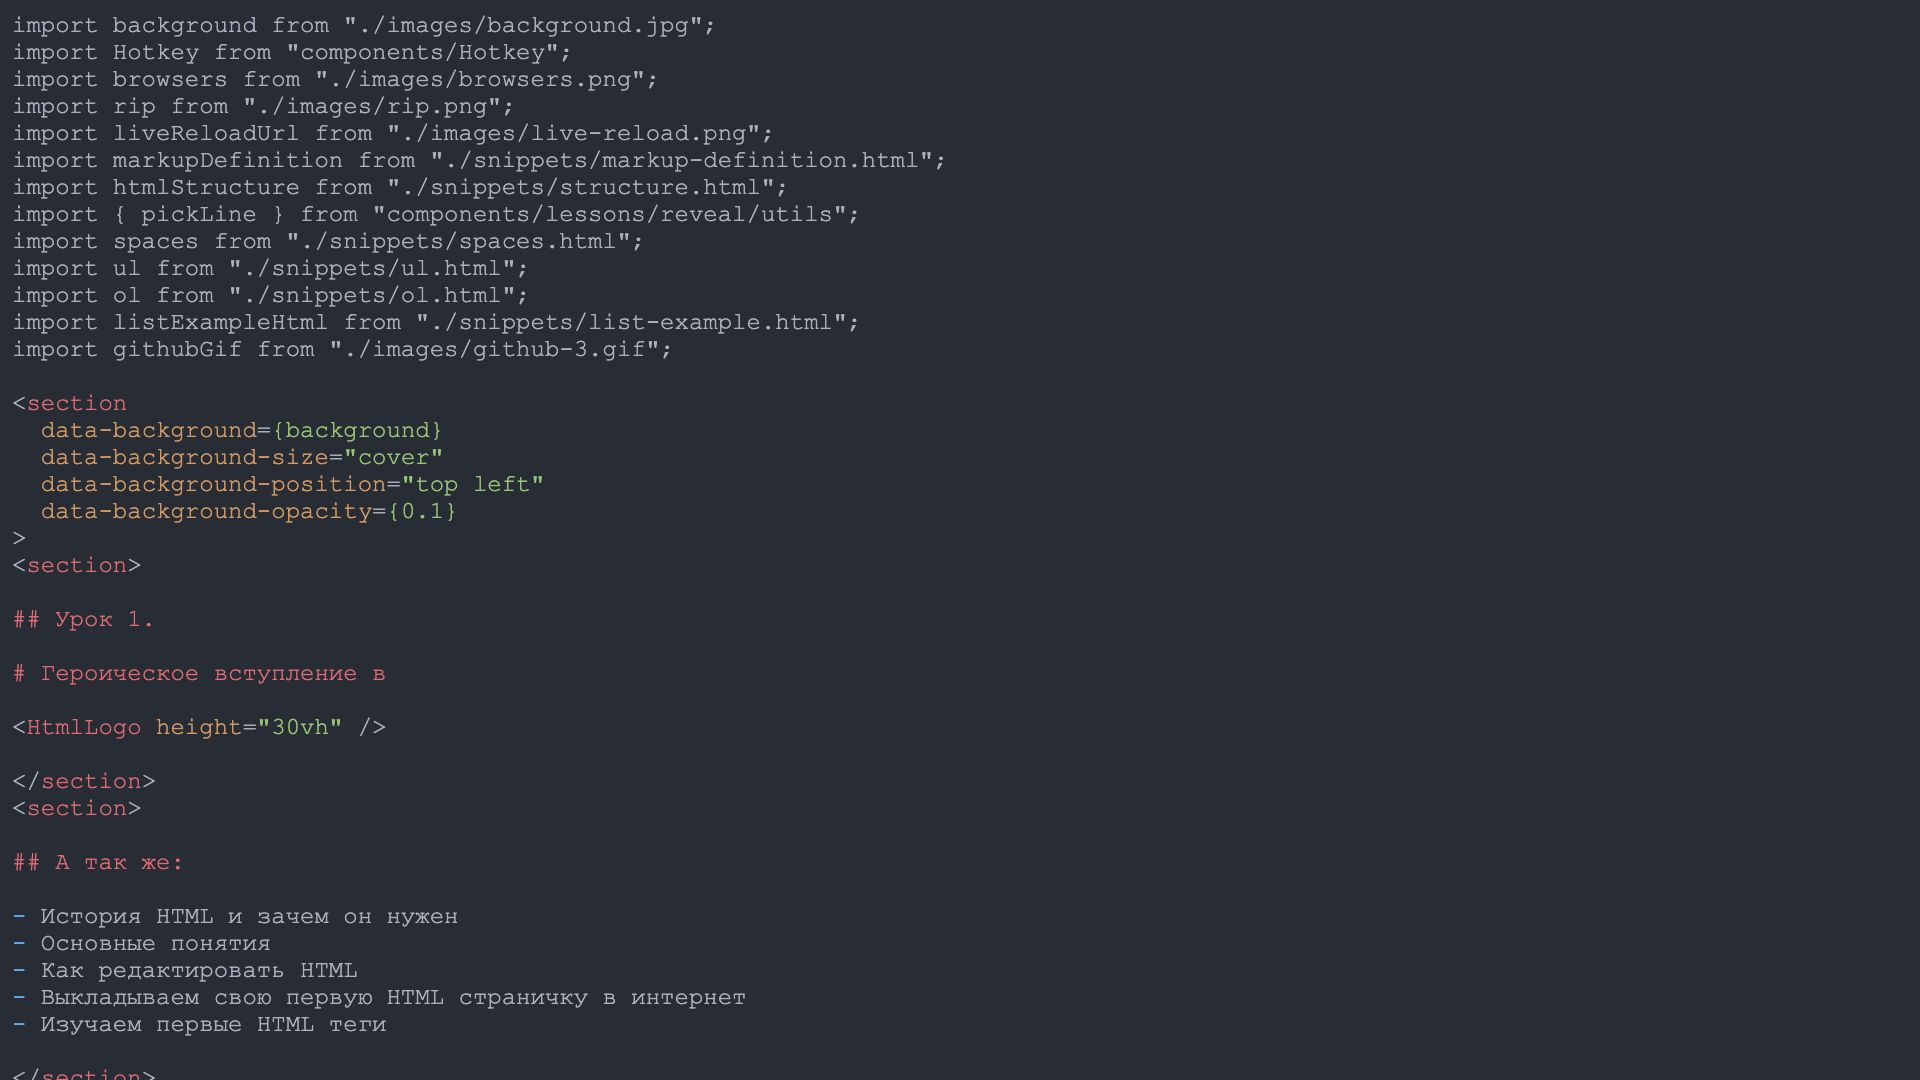
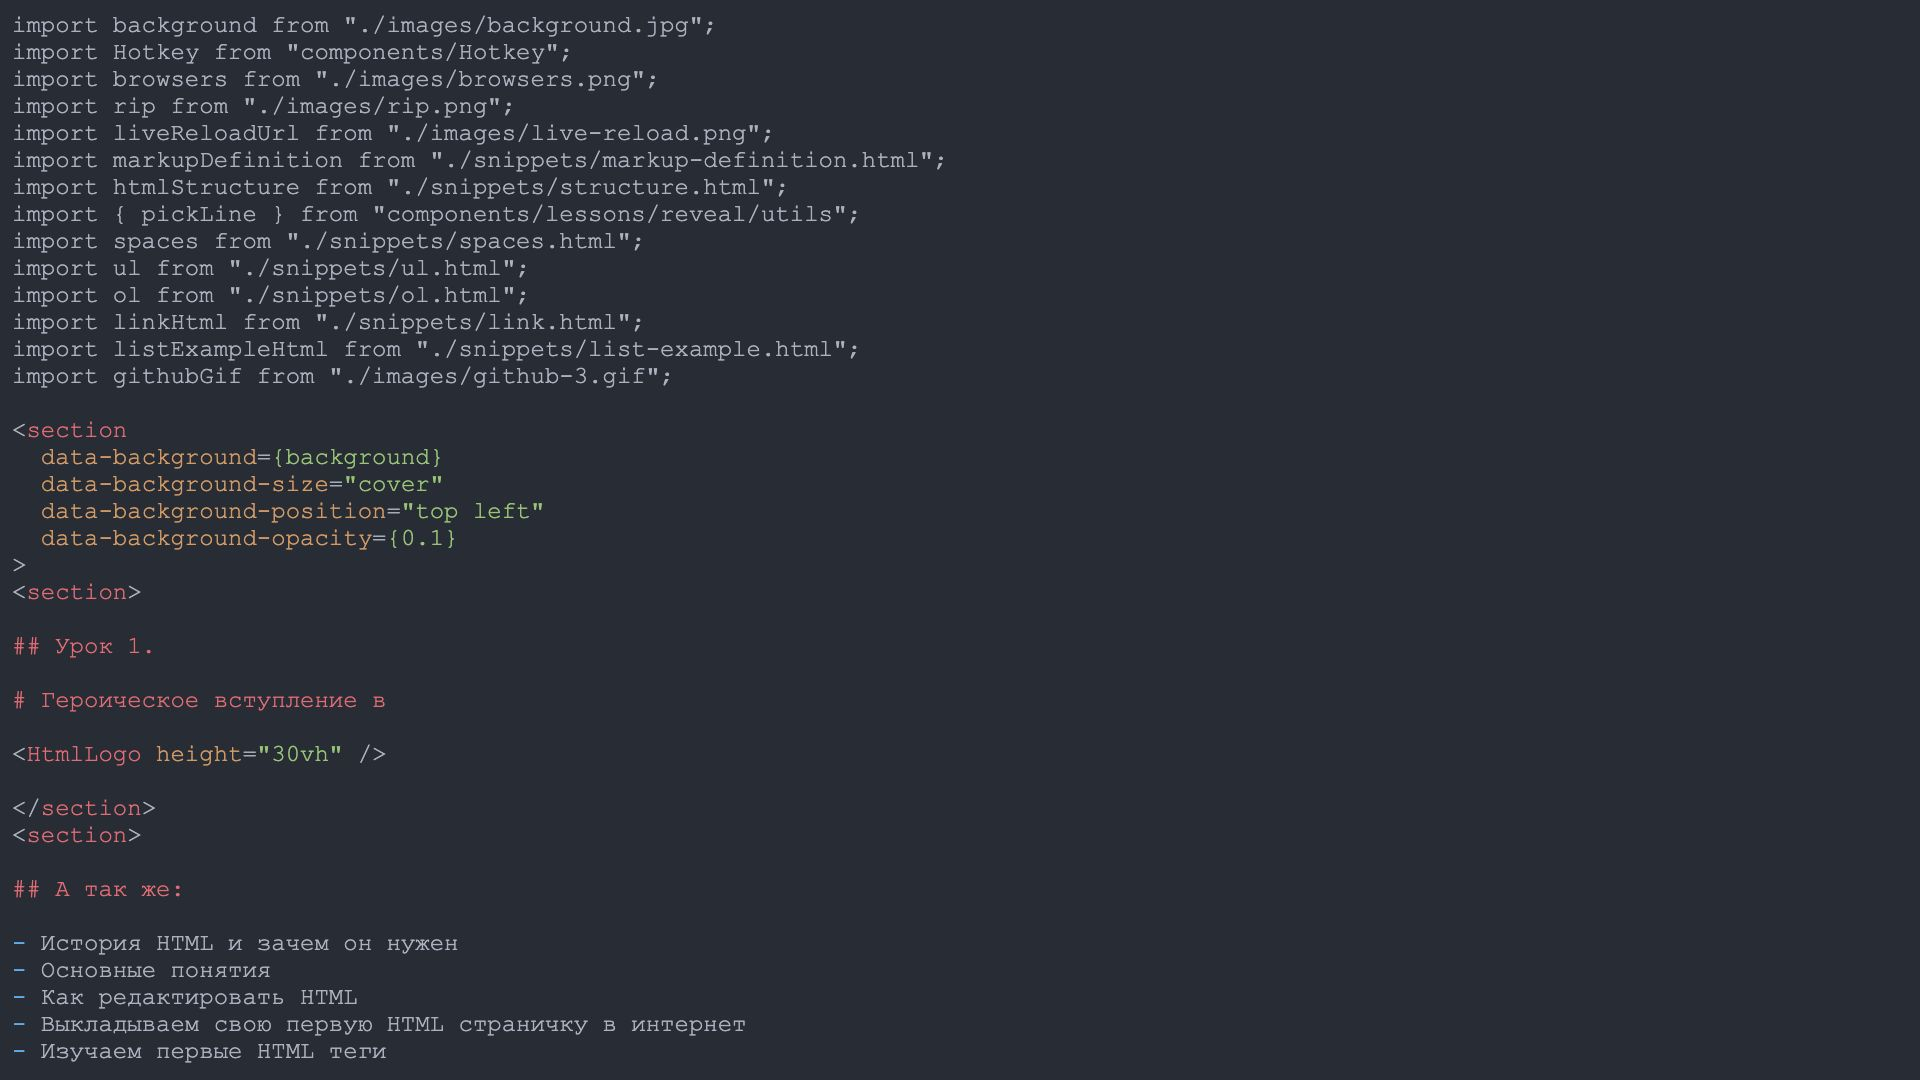
add link

Changed region(s): [[0.0, 0.275, 0.4375, 1.0]]

diff --git a/src/pages/lessons/html/01-html/snippets/link.html b/src/pages/lessons/html/01-html/snippets/link.html
@@ -1,0 +1,7 @@
+<a 
+  href="https://hipstacoding.school/"
+  target="_blank"
+  title="Нажми на меня"
+>
+  Текст ссылки
+</a>
